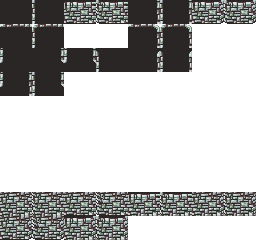
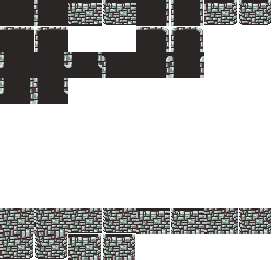
Fix the rendering glitches around the edges of the map.

diff --git a/src/common/zone.ts b/src/common/zone.ts
@@ -16,6 +16,7 @@ export class Obstacle {
   onInteract(character: Character): void {}
   position: Vector2;
   radius = 0.4;
+  collides = true;
 }
 
 export interface Portal extends Obstacle {
@@ -62,6 +63,8 @@ export interface ZoneData {
   layout: string;
   // Custom/unique obstacles present in the layout diagram.
   obstacles: {[name: string]: ObstacleData};
+  // IDs of all characters in the zone.
+  characters: Set<string>;
 }
 
 export interface Neighbours {
@@ -98,7 +101,6 @@ export async function load(data: ZoneData, loadWall: LoadWall, loadObstacle: Loa
           floor.add(position.toString());
           break;
         case '#':
-          floor.add(position.toString());
           const edge = '#';
           const neighbours: Neighbours = {
             up: lines[y - 1]?.[x] ?? edge,
@@ -113,10 +115,9 @@ export async function load(data: ZoneData, loadWall: LoadWall, loadObstacle: Loa
           placedObstacles.set(position.toString(), loadWall(position, neighbours));
           break;
         default:
-          floor.add(position.toString());
           const obstacle = obstacleData.get(type);
-          if (!obstacle) throw new Error('Undefined obstacle type: ' + type);
-          if (obstacle == null) throw new Error('Obstacle type ' + type + ' used multiple times.');
+          if (obstacle === undefined) throw new Error('Undefined obstacle type: ' + type);
+          if (obstacle === null) throw new Error('Obstacle type ' + type + ' used multiple times.');
           placedObstacles.set(position.toString(), loadObstacle(type, position, obstacle));
           obstacleData.set(type, null);
       }
@@ -168,6 +169,7 @@ export abstract class Zone {
           const key = new Vector2(x + dx, y + dy).toString();
           const obstacle = this.obstacles.get(key);
           if (!obstacle) continue;
+          if (!obstacle.collides) continue;
           // Check for overlap with the obstacle by computing overlap in each axis.
           const offset = obstacle.position.subtract(character.position);
           const minDistance = Character.radius + obstacle.radius;

diff --git a/src/client/zone.ts b/src/client/zone.ts
@@ -37,6 +37,7 @@ export class Obstacle extends common.Obstacle {
       height
     );
   }
+  drawFloor = true;
   readonly image: Image;
 }
 
@@ -53,7 +54,6 @@ export class Wall extends Obstacle {
     const right = neighbours.right === "#";
     const downLeft = neighbours.downLeft === "#";
     const downRight = neighbours.downRight === "#";
-
     if (!up || !down) {
       if (!up) {
         // need tall bits for top
@@ -146,10 +146,15 @@ export class Wall extends Obstacle {
       }
     }
 
-    return new Wall(image, position);
+    const floorLeft = neighbours.left != '#' && neighbours.left != '~';
+    const floorRight = neighbours.right != '#' && neighbours.right != '~';
+    const floorDown = neighbours.down != '#' && neighbours.down != '~';
+    let drawFloor = floorLeft || floorRight || floorDown;
+    return new Wall(drawFloor, image, position);
   }
-  private constructor(image: Image, position: Vector2) {
+  private constructor(drawFloor: boolean, image: Image, position: Vector2) {
     super(image, position);
+    this.drawFloor = drawFloor;
     this.radius = 0.5;
   }
 }
@@ -161,6 +166,7 @@ export class Portal extends Obstacle {
   }
   private constructor(name: string, image: Image, position: Vector2, destination: common.PortalDestination) {
     super(image, position);
+    this.collides = false;
     this.name = name;
     this.destination = destination;
   }
@@ -227,6 +233,10 @@ export class Zone extends common.Zone {
     for (const cell of this.floor) {
       const position = Vector2.fromString(cell);
       context.rect(32 * position.x, 24 * position.y, 32, 24);
+    }
+    for (const [cell, obstacle] of this.obstacles) {
+      if (!(obstacle as Obstacle).drawFloor) continue;
+      context.rect(32 * obstacle.position.x, 24 * obstacle.position.y, 32, 24);
     }
     context.fill();
     context.translate(16, 12);

diff --git a/src/client/drawing/image.ts b/src/client/drawing/image.ts
@@ -59,8 +59,9 @@ export async function openStatic(path: string): Promise<Sprite> {
 export async function openSprites(path: string, width: number, height: number): Promise<Sprite[]> {
   const image = await open(path);
   const sprites = [];
-  for (let y = 0; y < image.height; y += height) {
-    for (let x = 0; x < image.width; x += width) {
+  const border = 1;
+  for (let y = border; y < image.height; y += height + 2 * border) {
+    for (let x = border; x < image.width; x += width + 2 * border) {
       sprites.push(new Sprite(image, x, y, width, height));
     }
   }

diff --git a/src/server/main.ts b/src/server/main.ts
@@ -42,6 +42,7 @@ const example: ZoneData = {
       },
     },
   },
+  characters: new Map;
 };
 
 async function init() {
